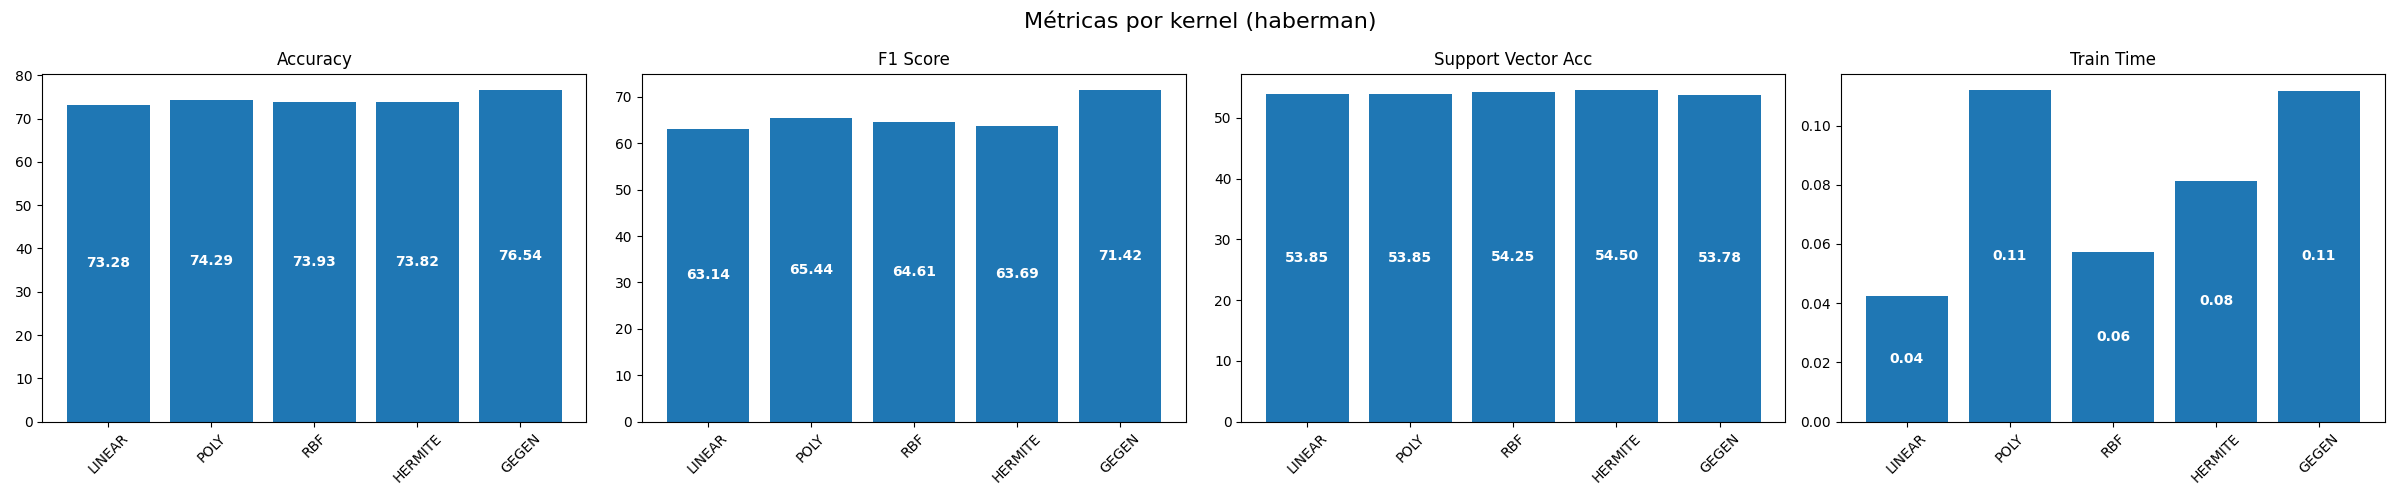
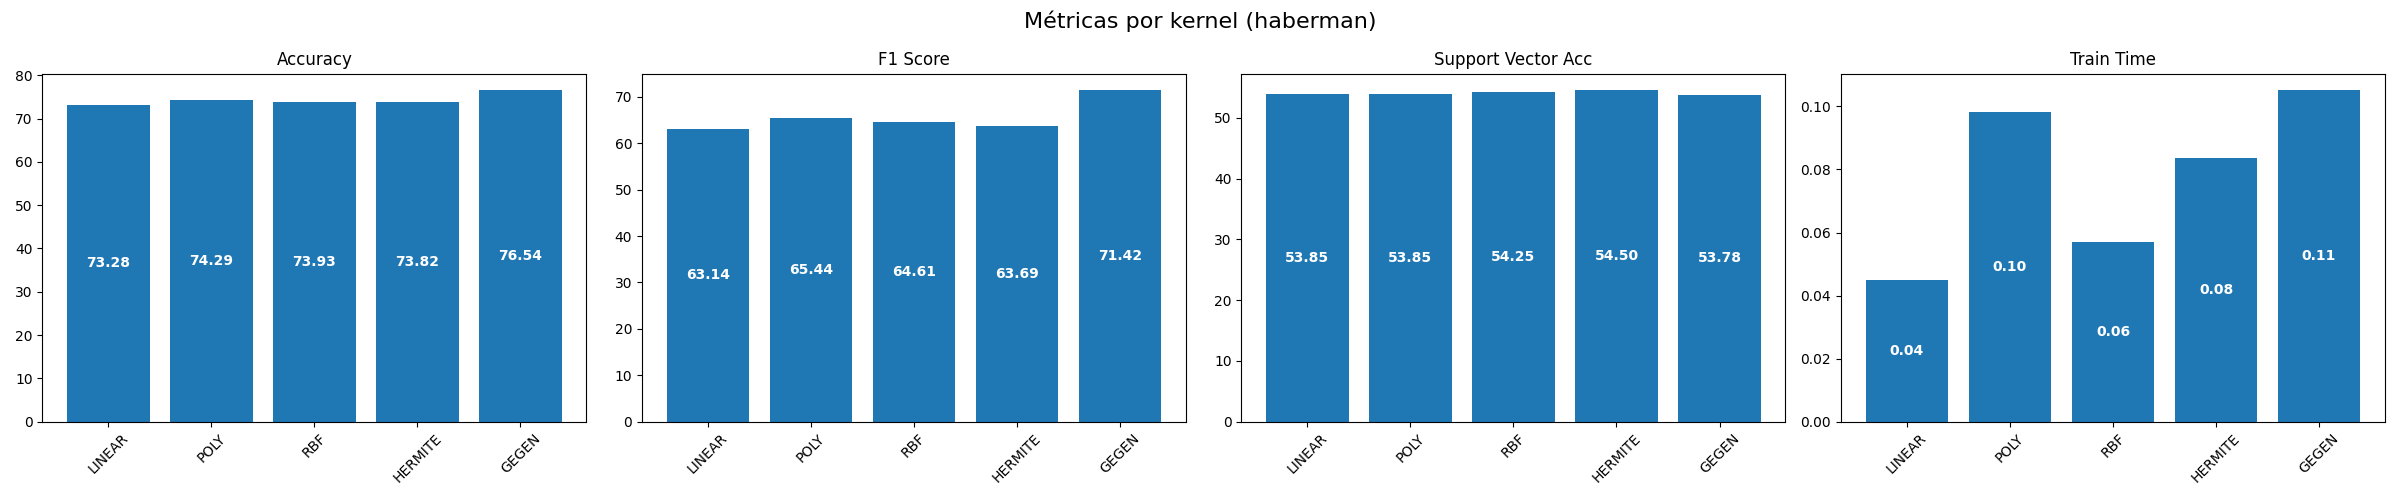
modified:   config.json 	modified:   experiments.py 	modified:   results/plots/haberman_metrics.png

diff --git a/experiments.py b/experiments.py
@@ -35,7 +35,7 @@ def main(config_path: str = "config.json"):
     # --- 3. Construir lista de kernels ---
     svm_cfg = cfg['svm']
     kernels = build_kernels(
-        hermite_degree=max(cfg['svm']['custom_hermite']['max_degree']),
+        hermite_degree=max(cfg['svm']['custom_hermite']['degree']),
         gegen_degree=max(cfg['svm']['custom_gegen']['degree']),
         gegen_alpha=cfg['svm']['custom_gegen']['alpha'][0]  # usa el primero como valor por defecto
     )
